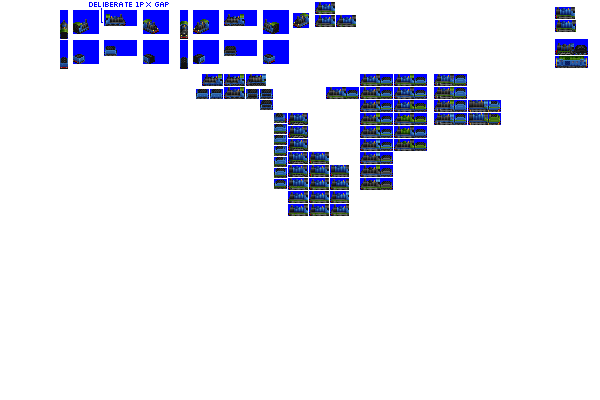
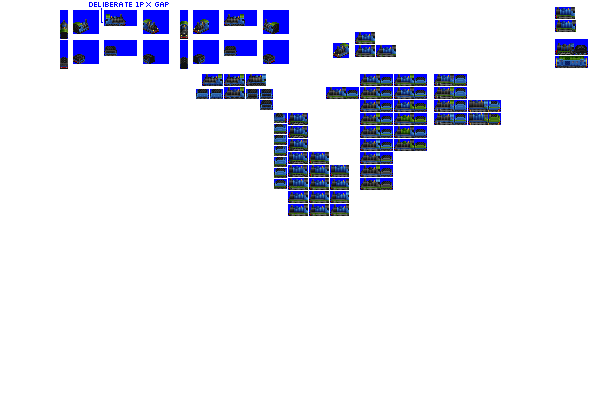
Change: tweaks to sprites complete for Gwynt

diff --git a/src/vehicles/gwynt.py b/src/vehicles/gwynt.py
@@ -10,7 +10,7 @@ def main(roster_id):
                             power=1100,
                             tractive_effort_coefficient=0.24,
                             gen=1,
-                            sprites_complete=False)
+                            sprites_complete=True)
 
     consist.add_unit(type=SteamEngineUnit,
                      weight=59,
